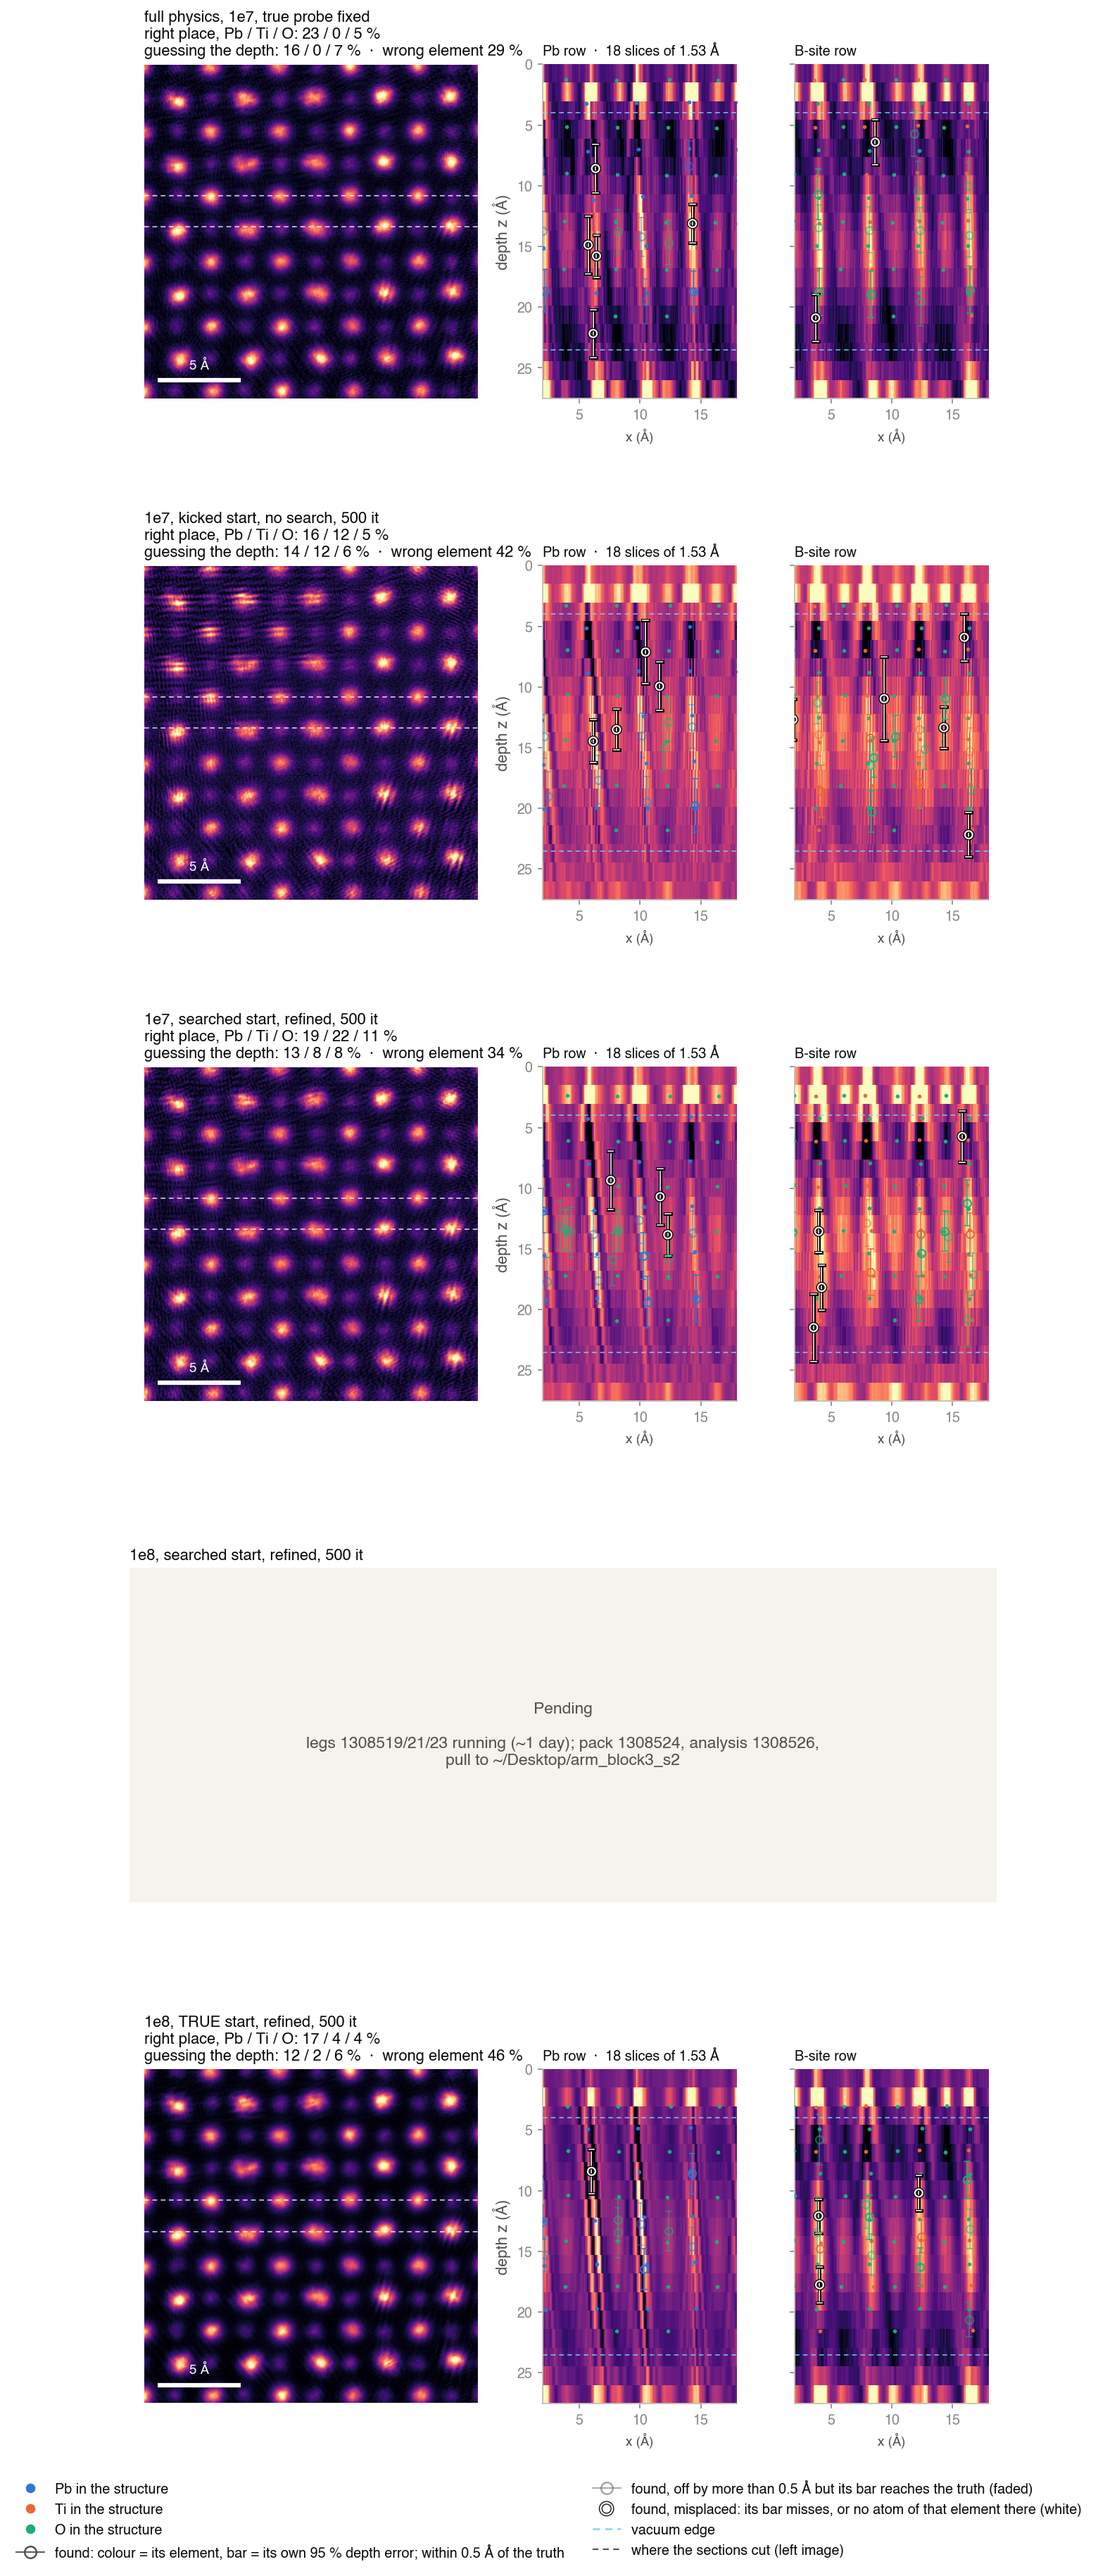
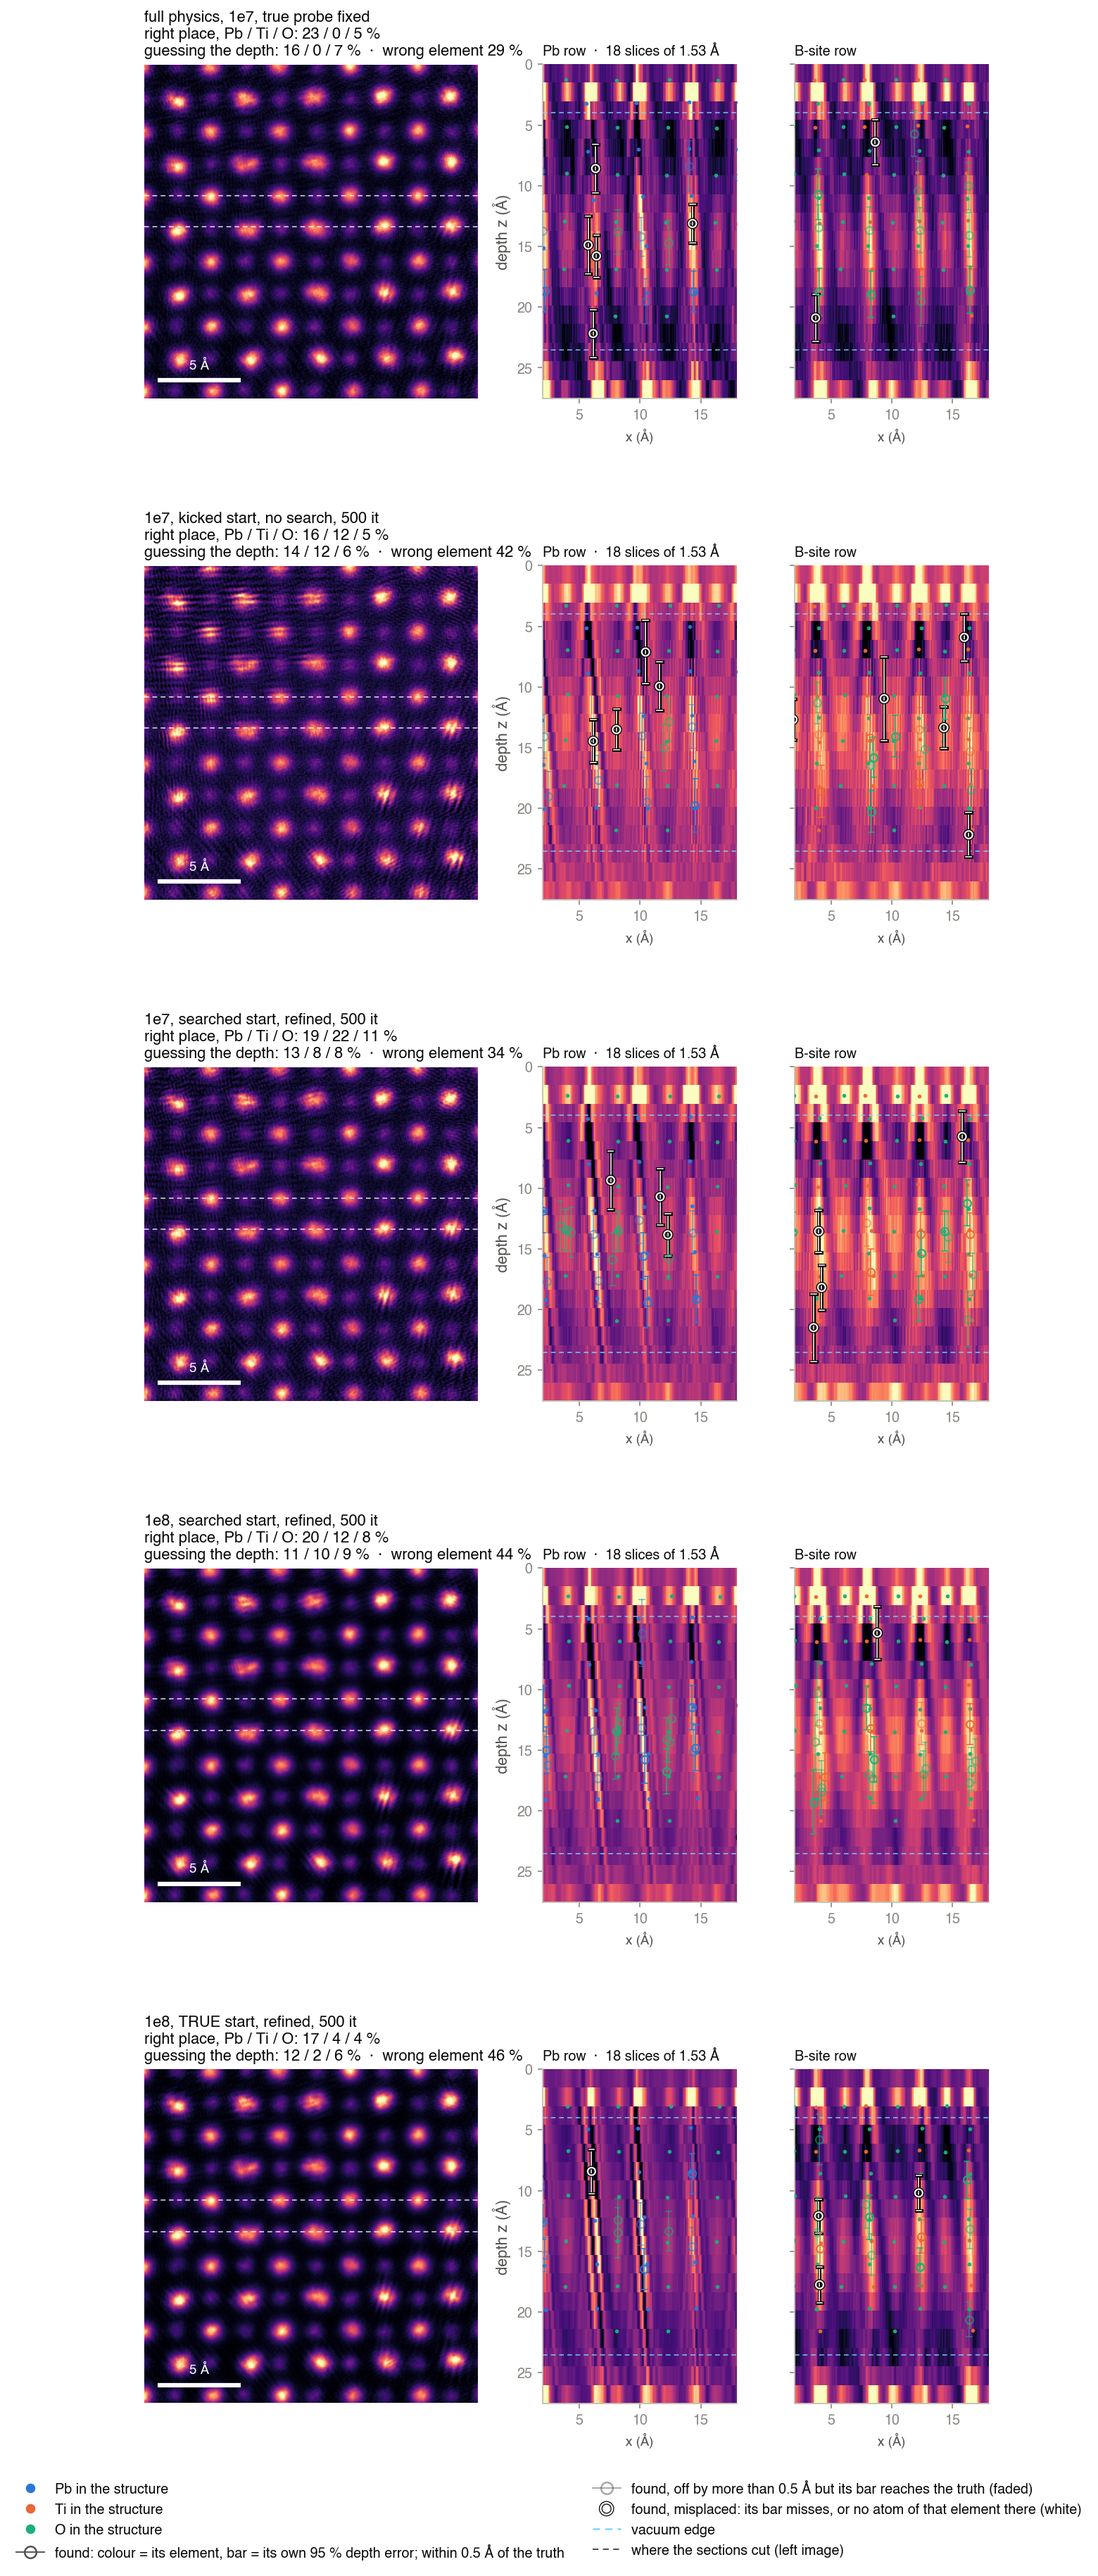
Block 5 results: coherent 90 mrad / 140 A good; phonons and partial coherence each remove depth at 80 mrad; 100 K helps; 70 mrad no better -- page v9, handoff

Changed region(s): [[0.1231, 0.592, 0.6769, 0.7477], [0.7077, 0.592, 0.9231, 0.7477]]

diff --git a/aberration_experiment/page/arm_2026-10-09.html b/aberration_experiment/page/arm_2026-10-09.html
@@ -387,15 +387,15 @@
       <p class="spec-v">{{REF_LINE}}</p>
       <p>
         The ARM200F's own aberrations do not stop depth ptychography at large apertures: with the probe known, 80 mrad
-        works, and the limit beyond it is the window the reconstruction can afford. What stops it at 80 mrad is the
-        realistic physics: room-temperature phonons together with the cold FEG's partial coherence remove the depth
-        information, whatever probe the reconstruction is given.
+        works, and so does 90 mrad once the window holds the probe. What stops it is the realistic physics: at 80 mrad
+        room-temperature phonons and the cold FEG's partial coherence each remove the depth information on their own,
+        whatever probe the reconstruction is given. Cooling to 100 K recovers part of what the phonons take.
       </p>
       <div class="spec-grid">
-        <div><b>to 90 mrad</b><span>the window, not the aberrations, sets the limit; the cost rises steeply beyond (§4, §8)</span></div>
+        <div><b>90 mrad: good</b><span>probe known, 140 Å window: Pb / Ti 92 / 50 % in the right place (§8)</span></div>
         <div><b>4× closer</b><span>outer-search start: 0.28 waves rms at 80 mrad against 1.13 for a 5 % kick (§7)</span></div>
         <div><b>1e7 = 1e8</b><span>ten times the dose changes nothing: shot noise is not the cause (§6)</span></div>
-        <div><b>Pb 17 %, guessing 12 %</b><span>phonons + partial coherence at 80 mrad, even from the true probe (§6, §7)</span></div>
+        <div><b>each alone</b><span>phonons or partial coherence alone already leave depth at the guessing level (§6)</span></div>
       </div>
     </div>
 
@@ -408,20 +408,22 @@
         times closer (0.28 against 1.13 waves rms at the 80 mrad edge): C1 to 2.3 Å and C3 to 0.14 µm, where the corrector
         measures ±40 Å and ±0.8 µm.</li>
       <li><b>The aperture can open to 90 mrad with the ARM200F's aberrations.</b> With the probe known, at 70 and 80 mrad 90 % of
-        Pb land in the right place (guessing: a quarter). 90 and 100 mrad failed only because the probe outgrew the 105 Å
-        window: the same 80 mrad probe fails the same way in a smaller window (§4), and at 90 mrad a 140 Å window shows no
-        window damage (§8). Nothing tested stops larger apertures except compute: 100 mrad needs a 210–280 Å window,
-        patterns of 2560–3400 px, roughly 3–6 times the 90 mrad cost per iteration.</li>
+        Pb land in the right place (guessing: a quarter). At 90 mrad the 105 Å window degraded the result (Pb / Ti 76 / 32 %), and a 140 Å window fixes it:
+        Pb / Ti 92 / 50 % in the right place against 23 / 13 % by guessing, with the tightest depth bars of any run
+        (0.63 Å) and Ti and O placed along the B-site columns (§8). Nothing tested stops larger apertures except compute:
+        100 mrad needs a 210–280 Å window, patterns of 2560–3400 px, roughly 3–6 times the 90 mrad cost per iteration.</li>
       <li><b>Shot noise does not break it.</b> 1e7 and 1e8 e/Å² give the same result.</li>
-      <li><b>Room-temperature phonons and partial coherence together break it at 80 mrad.</b> With the true probe fixed,
-        refined from the true probe with 4 modes, or refined from the searched probe, the atoms' depths are no better than
-        guessing (Pb 17–23 % against 12–19 %); the lattice is still clean in plane.</li>
-    </ul>
-    <h3>Still to find out (running)</h3>
-    <ul>
-      <li><b>Which of the two:</b> phonons alone, partial coherence alone, and both without noise (§6).</li>
-      <li><b>A cooled specimen:</b> phonons only at 100 K, an LN2-cooled holder (§6).</li>
-      <li><b>A smaller aperture:</b> the full physics at 70 mrad, the lowest aperture that still has depth to lose (§6).</li>
+      <li><b>Room-temperature phonons and partial coherence break it at 80 mrad, each on its own.</b> With the true probe
+        fixed and no noise, phonons alone give Pb / Ti 24 / 11 % in the right place (guessing 18 / 14 %) and partial
+        coherence alone 23 / 7 % (guessing 19 / 2 %). With both, from any probe the reconstruction is given, no run reaches
+        even the "okay" level (at best Pb 40 % against 14 % by guessing, without noise); the lattice stays clean in plane.</li>
+      <li><b>The two fail differently.</b> Partial coherence pushes part of the signal into the vacuum layers and turns
+        each column into one blob. Phonons leave a clean reconstruction, but each column becomes a smooth streak without
+        atom-by-atom contrast.</li>
+      <li><b>Cooling helps the phonon part.</b> At 100 K (an LN2-cooled holder), phonons alone give Pb 49 % in the right
+        place against 29 % by guessing, and the wrong-element share falls from 33 % to 8 %. Not yet at the known-probe level.</li>
+      <li><b>A smaller aperture does not escape it.</b> At 70 mrad the full physics also leaves depth at the guessing
+        level (Pb 12 % against 7–9 %).</li>
     </ul>
   </section>
 
@@ -542,16 +544,19 @@
     {{FRAG_PHYSICS_TABLE}}
     <h3>Which effect removes the depth</h3>
     <p>
-      Running since 9 October: phonons alone and partial coherence alone, each noiseless with the true probe fixed, and
-      both together without noise, so each row changes one thing. If phonons do it, a colder specimen helps; the last row
-      cools the specimen to 100 K (an LN2-cooled holder), which shrinks the thermal displacements by about a third (28–41 %). If partial
-      coherence does it, cooling will not help.
+      Each row changes one thing: noiseless, with the true probe fixed. Phonons alone and partial coherence alone each
+      leave the depths at the guessing level, so either is enough to remove the depth information at 80 mrad. Cooling the
+      specimen to 100 K (an LN2-cooled holder), which shrinks the thermal displacements by about a third (28–41 %),
+      recovers part of it: Pb rises well above guessing and the finder's wrong-element share drops to 8 %. Cooling cannot
+      help the partial coherence.
     </p>
     {{FRAG_SPLIT_TABLE}}
     <h3>A smaller aperture</h3>
     <p>
       At 70 mrad the depth resolution is coarser (4.0 Å against 3.1 Å) and the focal spread costs less phase at the
-      aperture edge (0.91 against 1.18 waves rms). Same physics and dose as at 80 mrad.
+      aperture edge (0.91 against 1.18 waves rms). Same physics and dose as at 80 mrad. It is no better: with the probe
+      fixed or refined from the true probe with 4 modes, Pb sits at 12 % against 7–9 % by guessing, and the depth sections
+      show diagonal streaks rather than columns.
     </p>
     {{FRAG_LOW_TABLE}}
   </section>
@@ -606,11 +611,15 @@
     </p>
     <!-- FILL final: when final90 and final90_fixed show IN, replace the callout with the verdict in 2-3 sentences and
          update section 01. -->
+    <div class="call ok">
+      <b>With coherent data and the probe known, 90 mrad in the 140 Å window is good:</b> Pb / Ti 92 / 50 % in the right
+      place against 23 / 13 % by guessing, depth bars 0.63 Å, half the residual of the 105 Å run, and titanium and
+      oxygen placed along the B-site columns.
+    </div>
     <div class="call stop">
-      <b>The fixed-probe twin is no better than at 80 mrad.</b> In plane the lattice is clean across the field, without
-      the window damage of the 105 Å run; in depth the columns smear as before (Pb / Ti 6 / 0 % in the right place,
-      9 / 0 % by guessing). Of the true-start legs, the lab one diverged: once its probe was released at full
-      resolution the solver's error went to NaN (after 10 hours). Without it the true-start run cannot be scored.
+      <b>With the full physics it is no better than 80 mrad.</b> The fixed-probe run is clean in plane but at the guessing
+      level in depth (Pb / Ti 6 / 0 % against 9 / 0 %). The true-start run's lab leg diverged once its probe was released
+      at full resolution (the solver's error went to NaN after 10 hours), so it was stopped with its Pb and Ti legs.
     </div>
     <figure class="wide">
       {{FIG_FINAL}}
@@ -626,7 +635,8 @@
       <div><span class="lg-t">Probe known, the ARM200F works to 80 mrad</span><span class="chip c-ok">supported</span>
         <span class="lg-d">With the four routinely tuned terms; 80 mrad matches the CEOS result.</span></div>
       <div><span class="lg-t">Beyond 80 mrad the window is the limit</span><span class="chip c-ok">supported</span>
-        <span class="lg-d">Same probe, smaller window, same failure. At 90 mrad a 140 Å window shows no window damage in plane (§8).</span></div>
+        <span class="lg-d">Same probe, smaller window, same failure; at 90 mrad a 140 Å window reconstructs well (Pb / Ti
+          92 / 50 %). Larger apertures cost compute, not physics.</span></div>
       <div><span class="lg-t">A few-per-cent probe error is recoverable with coherent data</span><span class="chip c-ok">supported</span>
         <span class="lg-d">500 iterations or 6 modes: Pb 66–80 %, Ti 33–47 % in the right place (90 / 58 % with the probe known).</span></div>
       <div><span class="lg-t">The outer search finds the probe from realistic data</span><span class="chip c-ok">supported</span>
@@ -634,9 +644,14 @@
       <div><span class="lg-t">With phonons and partial coherence, depth is lost whatever the probe</span><span class="chip c-stop">supported</span>
         <span class="lg-d">True probe fixed, true start with 4 modes, searched start: all at the guessing level at 80 mrad,
           and at 90 mrad in a 140 Å window. Ten times the dose changes nothing.</span></div>
-      <div><span class="lg-t">Which effect: phonons or partial coherence?</span><span class="chip c-open">running</span>
-        <span class="lg-d">Each alone, noiseless, probe fixed (§6). Phonons point to a colder specimen; partial coherence
-          (a 17 Å spread of focus against 3.1 Å depth resolution) would not be helped by cooling.</span></div>
+      <div><span class="lg-t">Phonons and partial coherence each remove depth on their own</span><span class="chip c-stop">supported</span>
+        <span class="lg-d">Each alone, noiseless, probe fixed, at 80 mrad (§6); 70 mrad is no better.</span></div>
+      <div><span class="lg-t">A colder specimen</span><span class="chip c-warn">partly</span>
+        <span class="lg-d">100 K recovers part of the phonon loss (Pb 49 % against 29 % by guessing). Colder still, down to
+          the zero-point motion, is untested.</span></div>
+      <div><span class="lg-t">Partial coherence</span><span class="chip c-open">open</span>
+        <span class="lg-d">Cooling cannot help it. Untested: whether probe modes absorb it without phonons present, and
+          which part matters, the 17 Å FWHM spread of focus (against 3.1 Å depth resolution) or the 0.4 Å source.</span></div>
       <div><span class="lg-t">300 kV with the ARM200F's corrector</span><span class="chip c-warn">open</span>
         <span class="lg-d">The ARM200F runs at 200 kV; its measured tableau stands in for a CEOS-corrected 300 kV column.
           At 200 kV the same gun spreads focus by 10.4 Å, not 7.3 Å. A 300 kV tableau (a Titan's) would be a direct check.</span></div>

diff --git a/aberration_experiment/HANDOFF_REALISTIC.md b/aberration_experiment/HANDOFF_REALISTIC.md
@@ -58,6 +58,16 @@ newer.
   final-run sims 1310307 (lab, running, ~30 min/config) / 1310311 / 1310315, noise 1310308/12/16, fixed 1310309/13/17,
   kicks 1310310/14/18, pack 1310319, analyses 1310320/21; early _s2 1e7 analysis 1310609; same-kernel analyses 1310612
   (no-search baseline) / 1310613 (refined lab, after 1308516), both with the _fixed 1e7 kernels.
+- **BLOCK 5 RESULTS (2026-10-12; honest scores, right place vs guessing; phase images viewed: ~/Desktop/arm_split/
+  phase_split.png, phase_other.png).** Coherent 90 mrad in the 140 A window GOOD: Pb/Ti/O 92/50/54 vs 23/13/17, wrong 6 %,
+  depth bar 0.63 A (smallest of any run), eps 0.0126 vs 0.0257 at 105 A; Ti and O placed along B-site columns. => 90 mrad
+  open given the window. SPLIT at 80 mrad (noiseless, true probe fixed): phonons only (RT) 24/11/3 vs 18/14/4, wrong 33 %;
+  coherence only 23/7/4 vs 19/2/7, wrong 34 %; both 40/0/15 vs 14/0/7, wrong 22 % -- EACH ALONE removes depth. They fail
+  differently: coherence loads the vacuum layers + one blob per column; phonons give a clean recon with smooth streaks.
+  Phonons only at 100 K: 49/22/25 vs 29/19/18, wrong 8 % (eps 0.0218 vs 0.0236 RT) -- cooling recovers part. 70 mrad full
+  physics 1e8: fixed 12/0/5 vs 9/3/5, true start 4 modes 12/2/8 vs 7/2/5 (probe 0.996) -- no better than 80. Refined 1e8
+  (searched start, own kernels worked): 20/12/8 vs 11/10/9, probe 0.27 -> 0.29. Page v9 has all of it. Open, for the user
+  to choose: modes on coherence-only data; focal spread vs source size; colder than 100 K; the 90 mrad full-physics rerun.
 - **BLOCK 5 SUBMITTED 2026-10-09 13:32.** Split: phonons only recons 1313978/80/82, pack 1313983, analysis 1313984;
   coherence only 1313986/88/90, 1313991, 1313992; both noiseless 1313993/94/95, 1313996, 1313997; 100 K 1313999/1314001/03,
   1314004, 1314005. 70 mrad: sims 1314006/10/14, noise 07/11/15, fixed 08/12/16, true start 09/13/17, pack 1314018,

diff --git a/aberration_experiment/page/ARM_PAGE.md b/aberration_experiment/page/ARM_PAGE.md
@@ -2,7 +2,7 @@
 
 Built 2026-10-08 for the meeting of 2026-10-09. Published URL: see below.
 
-PUBLISHED: https://claude.ai/artifact/MUkJ7yYrsek3nTLXcZgCrk (version 7, 2026-10-09: §1 rewritten as "what we know / still to find out"; 100 K phonons, 70 mrad full physics and a coherent 90 mrad / 140 Å run added as pending. Version 6: §2 "Experimental parameters" table -- every physics value and what it does at 300 vs 200 kV. Version 5: true-start ceiling, refined 1e7, 90 mrad fixed twin and the physics split filled in. Version 1, 2026-10-08 evening: everything to the search; refined, true-start and final runs pending.
+PUBLISHED: https://claude.ai/artifact/MUkJ7yYrsek3nTLXcZgCrk (version 9, 2026-10-12: split, 100 K, 70 mrad and coherent 90 mrad results written in. Version 7, 2026-10-09: §1 rewritten as "what we know / still to find out"; 100 K phonons, 70 mrad full physics and a coherent 90 mrad / 140 Å run added as pending. Version 6: §2 "Experimental parameters" table -- every physics value and what it does at 300 vs 200 kV. Version 5: true-start ceiling, refined 1e7, 90 mrad fixed twin and the physics split filled in. Version 1, 2026-10-08 evening: everything to the search; refined, true-start and final runs pending.
 Version 2, same evening: atoms scored as "right place" against a guessing level, the finder's own depth bars drawn, misplaced atoms highlighted -- see "The atom numbers" below.
 Version 3: text trimmed ~40 % at the user's request; the 5 % kick section cut to one paragraph, one table, one figure. Keep new prose as short.
 Version 4: appendix B "Reproduce" (part_reproduce): coherent vs full physics, every probe coefficient, the fixed settings and
